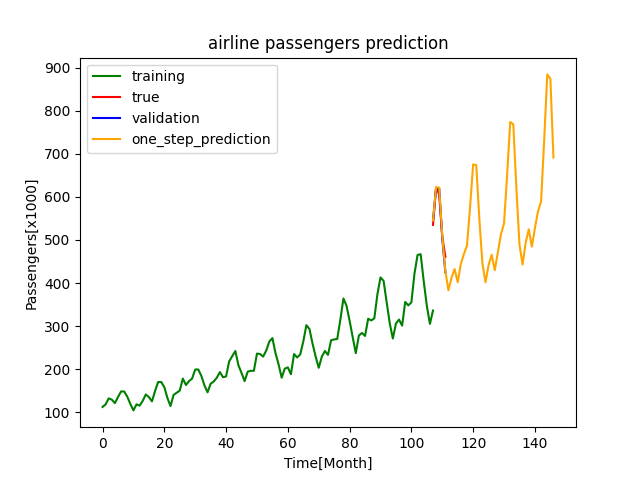
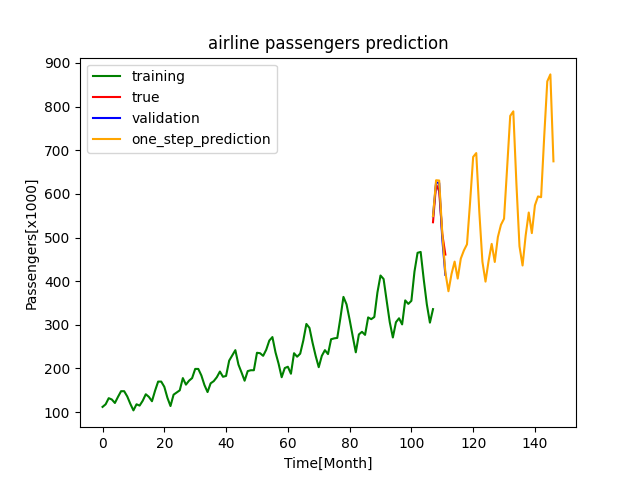
set epoch to 1000 for airline_passengers models

diff --git a/TimeSeriesPrediction/2_UnivariatTimeSeriesForecast/AirlinePassengers/Keras/airline_passengers_forecasting_keras.py b/TimeSeriesPrediction/2_UnivariatTimeSeriesForecast/AirlinePassengers/Keras/airline_passengers_forecasting_keras.py
@@ -51,7 +51,7 @@ def create_LSTM_model(inputs, targets, lookback):
     #model.add(tf.keras.layers.Dropout)
     model.add(tf.keras.layers.Dense(units=1))
     model.compile(optimizer=tf.keras.optimizers.Adam(0.0001), loss='mean_squared_error')
-    model.fit(inputs, targets, epochs=200, batch_size=1)
+    model.fit(inputs, targets, epochs=1000, batch_size=1)
     return model
 
 

diff --git a/TimeSeriesPrediction/2_UnivariatTimeSeriesForecast/AirlinePassengers/Pytorch/airline_passengers_forecasting_pytorch.py b/TimeSeriesPrediction/2_UnivariatTimeSeriesForecast/AirlinePassengers/Pytorch/airline_passengers_forecasting_pytorch.py
@@ -86,7 +86,7 @@ class AirlinePassengersModel(nn.Module):
 
 
 airline_passenger_model = AirlinePassengersModel()
-num_epochs = 200
+num_epochs = 1000
 for epoch in range(num_epochs):
     airline_passenger_model.backward(train_loader, epoch, num_epochs)
     airline_passenger_model.validate(test_loader)
